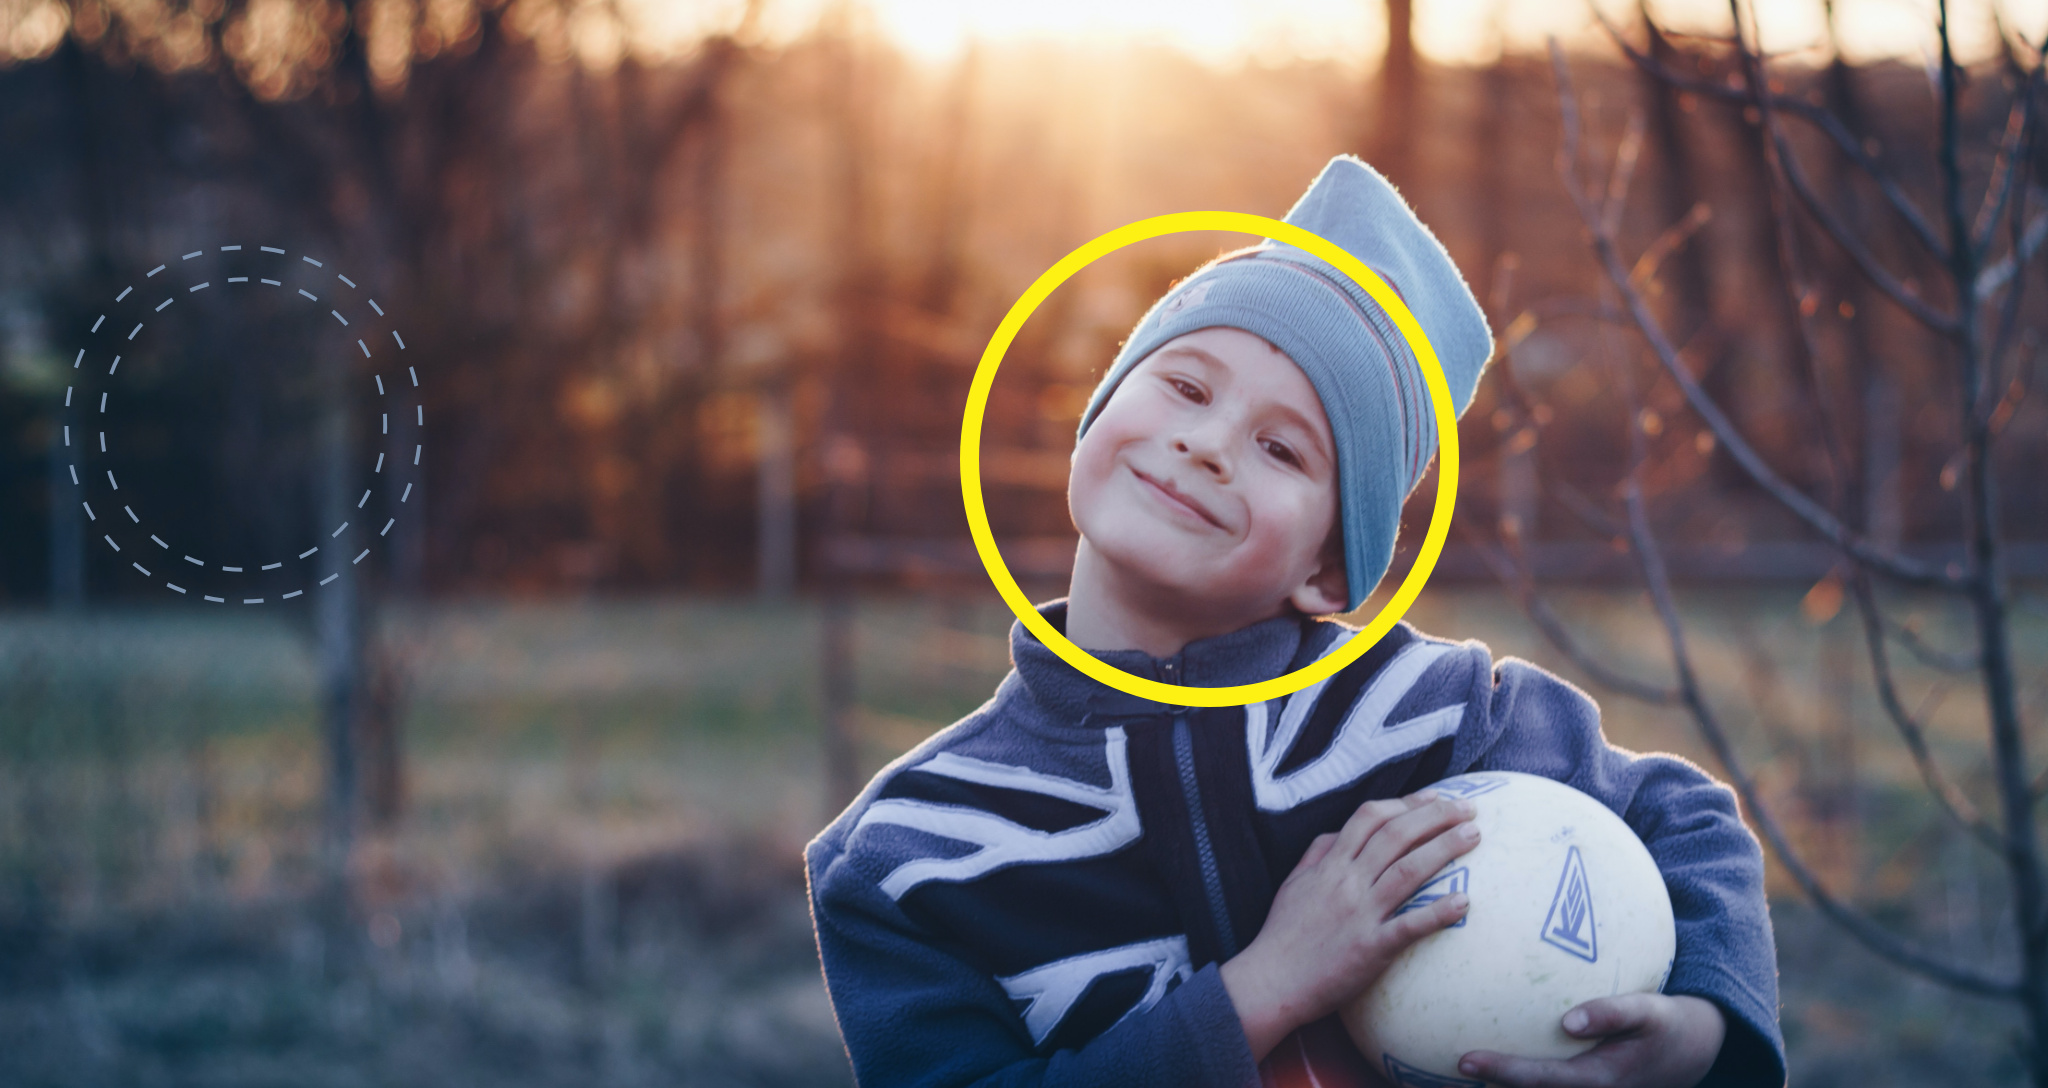
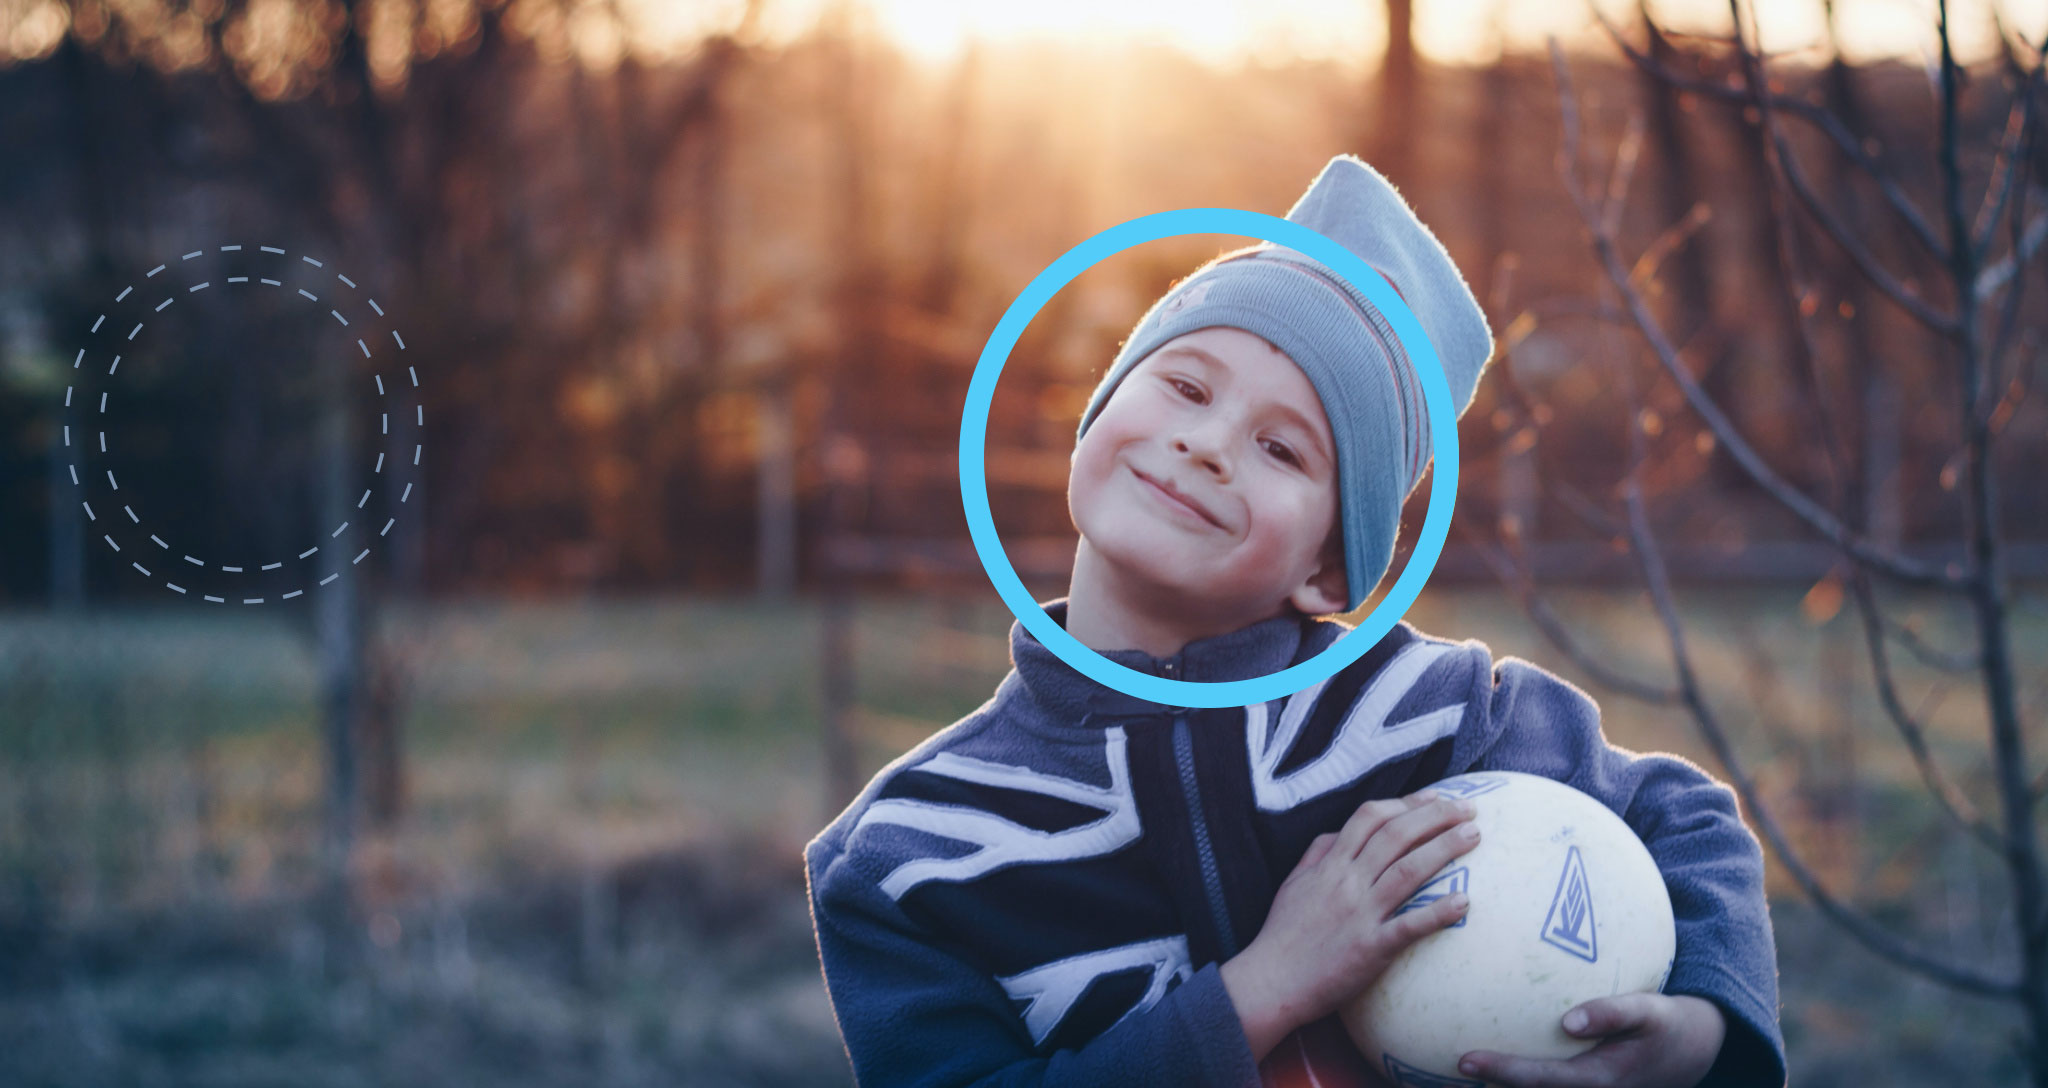
theme color images changes

Changed region(s): [[0.4688, 0.1875, 0.7188, 0.6562]]

diff --git a/src/App.css b/src/App.css
@@ -793,11 +793,11 @@ CSS Header
   }
 }
 .customHeader.navbar-default .navbar-nav>li.loginBtn a{
-  border: 4px solid rgb(252,241,19);
+  border: 4px solid #53CCF9;
   border-radius: 5px;
 }
 .customHeader.navbar-default .navbar-nav>li.loginBtn a:hover{
-  border: 4px solid rgb(252,241,19);
+  border: 4px solid #53CCF9;
 }
 
 .navbar-collapse.collapse.in{
